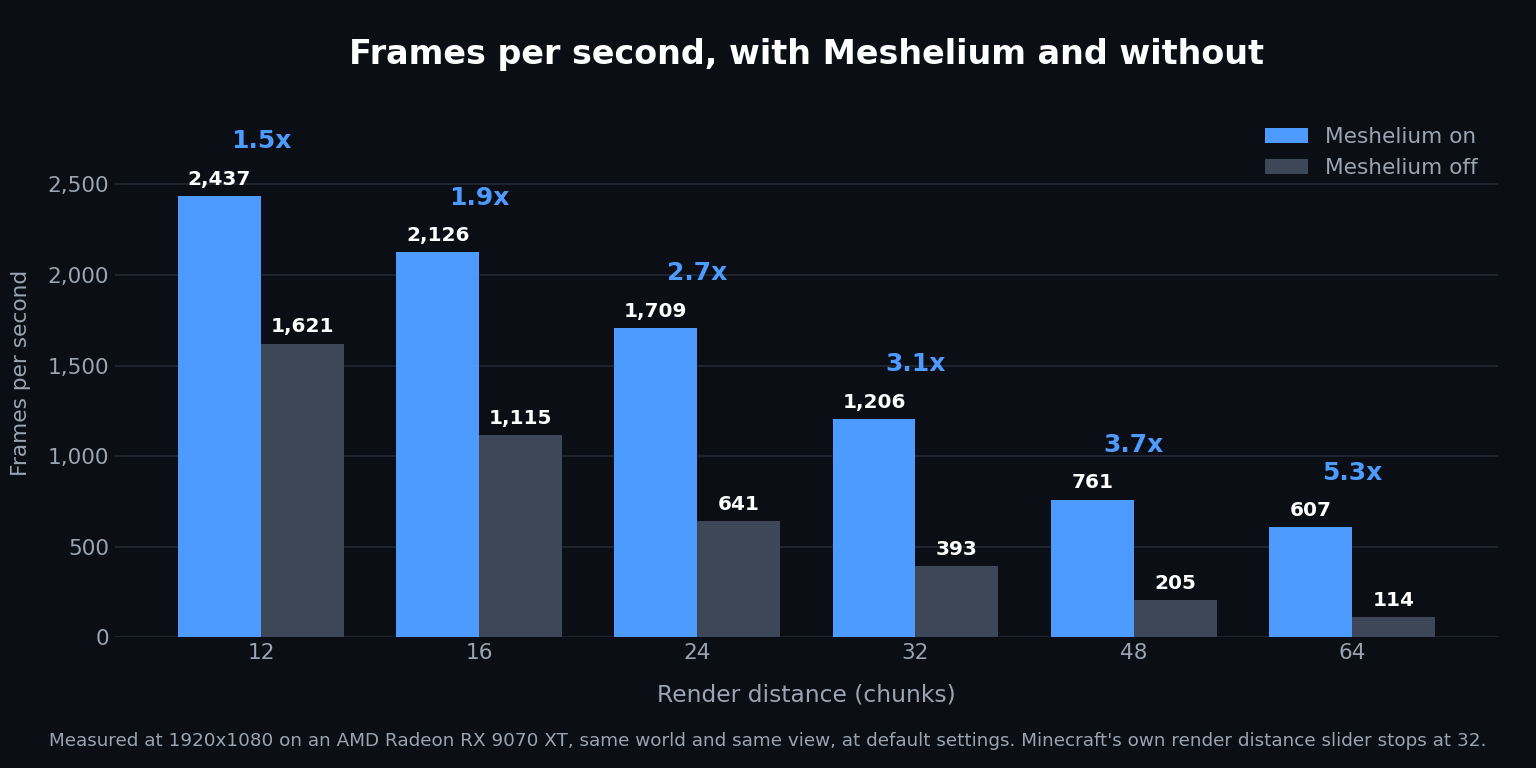
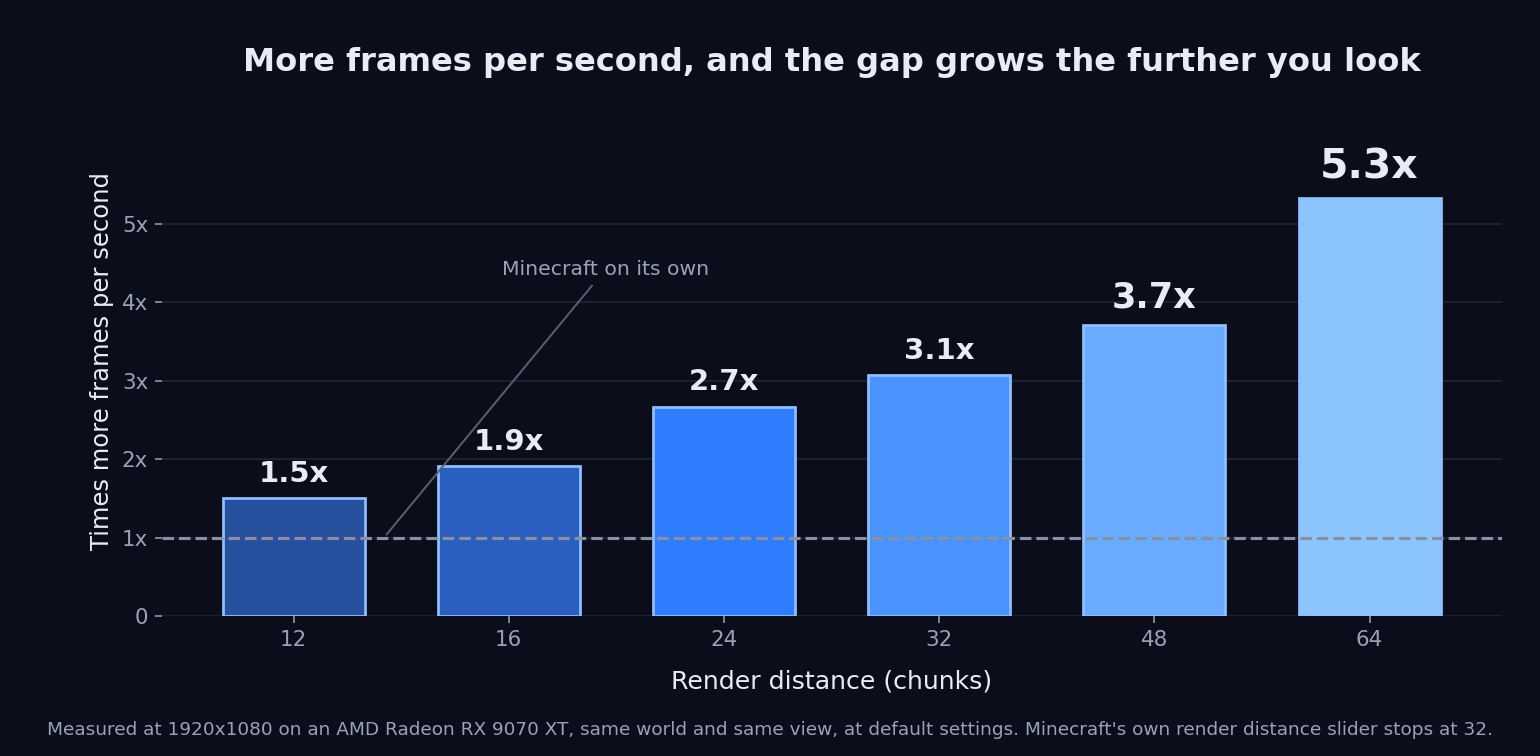
Put the multiplier chart back as the published one
The chart README and the Modrinth page embed changed when 1.6 went out.
This restores the one published from 1.1 through 1.5.2, byte for byte.

Plotted as raw frames per second the bars fall left to right, because
frame rates drop as render distance rises, so the picture reads as the
mod doing less the further you look. The multiplier chart plots the
ratio instead: the bars rise from 1.5x to 5.3x and the picture agrees
with the numbers. Same measurements, opposite impression.

Alt text in both files corrected to describe the chart that is actually
there. make_fps_chart.py now writes fps-chart-paired.png rather than
overwriting the published chart, and its header records which chart is
published and that this script does not generate it.

diff --git a/docs/tools/make_fps_chart.py b/docs/tools/make_fps_chart.py
@@ -5,8 +5,25 @@ numbers on the store page could not be re-plotted without redrawing the
 whole thing by hand. This script is that generator.
 
 Run:  python docs/tools/make_fps_chart.py
-Writes: docs/fps-chart.png          the multi-distance comparison
+Writes: docs/fps-chart-paired.png   the on-against-off comparison
         docs/fps-chart-rd64.png     the single headline comparison
+
+IT DOES NOT WRITE docs/fps-chart.png, AND MUST NOT. That file - the one
+README.md and the Modrinth page actually embed - is the older MULTIPLIER
+chart: one bar per render distance showing how many times more frames
+Meshelium gives, rising left to right from 1.5x to 5.3x. It predates this
+script and there is no generator for it.
+
+That chart was published from 1.1 through 1.5.2, was replaced by this
+script's paired style when 1.6 went out, and was put back on request. The
+reason is worth keeping: plotted as raw frames per second the bars FALL
+left to right, because frame rates drop as render distance rises, so the
+picture reads as the mod doing less the further you look. The multiplier
+chart plots the ratio instead, so the bars rise and the picture says what
+the numbers say. Same data, opposite impression.
+
+Writing to fps-chart-paired.png rather than fps-chart.png is deliberate:
+running this script used to overwrite the published chart silently.
 
 THE NUMBERS. One source of truth, below, taken from the table published
 in README.md. They are one machine, one world, one camera, at 1920x1080
@@ -138,5 +155,5 @@ def rd64_chart(path: Path):
 
 if __name__ == "__main__":
     docs = Path(__file__).resolve().parents[1]
-    paired_chart(docs / "fps-chart.png")
+    paired_chart(docs / "fps-chart-paired.png")
     rd64_chart(docs / "fps-chart-rd64.png")

diff --git a/docs/MODRINTH.md b/docs/MODRINTH.md
@@ -11,7 +11,7 @@ and you can push the render distance far past the slider's usual limit.
 Measured at 1920x1080 on an AMD Radeon RX 9070 XT, same world, same view. One
 run with the mod and one without:
 
-![Bar chart pairing frames per second with Meshelium on against Meshelium off at six render distances: 2,437 against 1,621 at 12 chunks, widening to 607 against 114 at 64 chunks](https://raw.githubusercontent.com/ded811/Meshelium/master/docs/fps-chart.png)
+![Bar chart of how many times more frames per second Meshelium gives at six render distances, the bars rising from 1.5x at 12 chunks to 5.3x at 64](https://raw.githubusercontent.com/ded811/Meshelium/master/docs/fps-chart.png)
 
 | Render distance | Minecraft | Meshelium | Difference |
 |---|---|---|---|

diff --git a/README.md b/README.md
@@ -20,7 +20,7 @@
 
 Frames per second at 1920x1080, same computer, same world, looking the same way, at default settings. One run with Meshelium, one without.
 
-![Bar chart pairing frames per second with Meshelium on against Meshelium off at six render distances: 2,437 against 1,621 at 12 chunks, widening to 607 against 114 at 64 chunks](docs/fps-chart.png)
+![Bar chart of how many times more frames per second Meshelium gives at six render distances, the bars rising from 1.5x at 12 chunks to 5.3x at 64](docs/fps-chart.png)
 
 **The further you look, the bigger Meshelium wins.** Here are the actual frame rates behind that graph, in frames per second, so higher is better:
 
